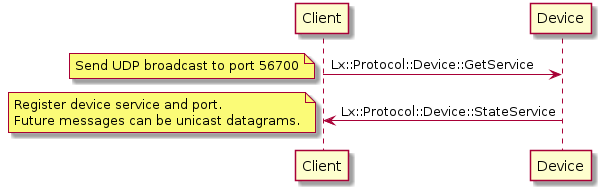
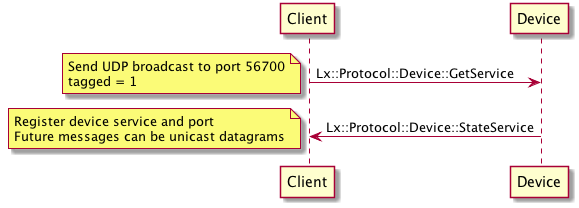
Included documentation on the Frame "tagged" field, which is required for device discovery (DeviceGetStatus).

diff --git a/header.md b/header.md
@@ -27,6 +27,7 @@ The Frame section contains information about the ...
 
 * Size of the entire message
 * LIFX Protocol number: must be 1024 (decimal)
+* Use of the Frame Address _target_ field
 * Source identifier
 
 ![](header/frame.png)
@@ -35,10 +36,17 @@ The Frame section contains information about the ...
 |-------|------|------|-------------|
 | size | 16 | uint16_t | Size of entire message in bytes including this field |
 | origin | 2 | uint8_t | Message origin indicator: must be zero (0) |
-| reserved | 1 | | Reserved: must be zero (0) |
+| tagged | 1 | bool | Determines usage of Frame Address _target_ field
 | addressable | 1 | bool | Message includes a target address: must be one (1) |
 | protocol | 12 | uint16_t | Protocol number: must be 1024 (decimal) |
 | source | 32 | uint32_t | Source identifier: unique value set by the client, used by responses |
+
+The _tagged_ field is a boolean flag that indicates whether the Frame Address
+_target_ field is being used to address an individual device or all devices.
+For device discovery using [Device::GetService](messages/device.md#getservice),
+the _tagged_ field should be set to one (1) and the _target_ should be all
+zeroes.  In all other messages, the _tagged_ field should be set to zero (0)
+and the _target_ field should contain the device MAC address.
 
 The _source_ identifier allows each client to provide an unique value,
 which will be included by the LIFX device in any message that is sent in
@@ -72,7 +80,7 @@ The Frame Address section contains routing information about the ...
 The _target_ device address is 8 bytes long, when using the 6 byte MAC address
 then left-justify the value and zero-fill the last two bytes.
 A _target_ device address of all zeroes effectively addresses all devices
-on the local network.
+on the local network.  The Frame _tagged_ field must be set accordingly.
 
 There are two flags that cause a LIFX device to send a message in response.
 In these cases, the _source_ identifier in the response message will be set

diff --git a/workflows.md b/workflows.md
@@ -12,7 +12,8 @@
 ## Discovery
 
 1. Send [Device::GetService](messages/device.md#getservice---2)
-as a UDP broadcast to port 56700.
+as a UDP broadcast to port 56700 with the [Frame](header.md#frame)
+_tagged_ field set to one (1).
 2. All devices on LAN should respond back with one or more
 [Device::StateService](messages/device.md#stateservice---3) messages.
 3. Clients can then send further messages directly to individual devices or

diff --git a/messages/device.md b/messages/device.md
@@ -135,6 +135,9 @@ Sent by a client to acquire responses from all devices on the local network.
 No payload is required.
 Causes the devices to transmit a [StateService](#stateservice---3) message.
 
+When using this message, the [Frame](../header.md#frame) _tagged_ field must
+be set to one (1).
+
 ### StateService - 3
 
 Response to [GetService](#getservice---2) message.
